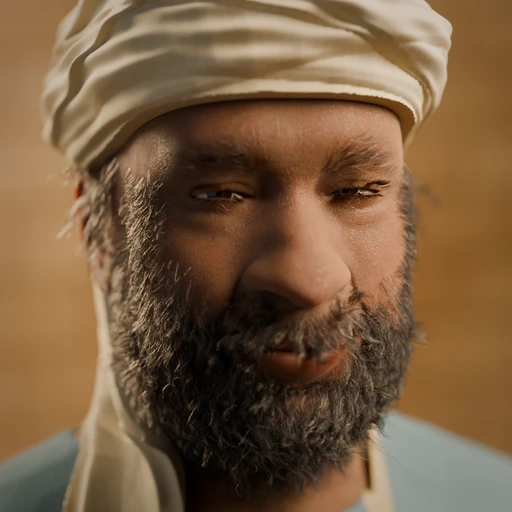
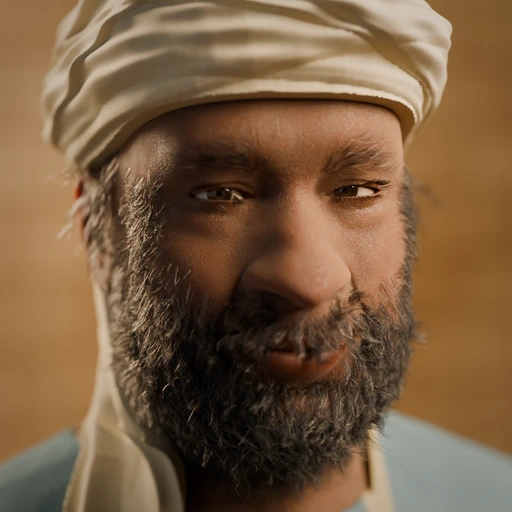
fix(art): Elazar's and Kallias's smiles keep their eyes open
Their glad faces narrowed the eyes to a slit that hid the iris (pupil
heights -3.23 and -5.59 against the gaze check's -0.5 floor). How far a
smile narrows the eyes is now a person's own trait, `smile_squint` in
CASTING (1 by default; 0.45 for Elazar's hooded eyes, 0.4 for Kallias),
scaling the smile's lid slit and cheek lift. Re-rendered: heights 0.05 and
0.20, skin within dE 1 using their neutral portraits' correction.

diff --git a/tools/art/lib/portrait_params.py b/tools/art/lib/portrait_params.py
@@ -54,6 +54,9 @@ class Params:
     brow_asym: float = 0.0  # + the person's left brow higher
     lid_droop: float = 0.0  # heavy upper lids (weariness)
     squint: float = 0.0  # lower lids raised (sun, suspicion)
+    # How far a smile narrows this person's eyes (1 = the usual squint). Some
+    # faces close to a slit that hides the iris: Elazar's hooded eyes, Kallias's.
+    smile_squint: float = 1.0
     mouth_down: float = 0.0
     press: float = 0.0  # lips pressed together
     gaze: tuple = (0.0, 0.0)  # degrees away from the camera: (+ person's left, + up)
@@ -126,7 +129,7 @@ CASTING = {
     # ── Chapter 2: A Storm on Galilee ──────────────────────────────────────
     "shelomit": dict(age=71, sex="f", mood="kind", sun=0.65, face="oval", nose="aquiline", eyes="down", lips="thin"),
     # Uncle Elazar: master of the family boat, a fisherman since boyhood.
-    "elazar": dict(age=45, sex="m", mood="hearty", sun=1.0, face="square", nose="broad", eyes="hooded", lips="full"),
+    "elazar": dict(age=45, sex="m", mood="hearty", sun=1.0, face="square", nose="broad", eyes="hooded", lips="full", smile_squint=0.45),
     # Tamar: the player's cousin, a rower who teaches them the boat.
     "tamar": dict(age=17, sex="f", mood="bright", sun=0.75, face="heart", nose="straight", eyes="almond", lips="full"),
     "yoezer": dict(age=39, sex="m", mood="dour", sun=1.0, scars=[((2.6, -6.2), (3.4, -7.0), 0.09)], hair="crop", face="long", nose="convex", eyes="deep", lips="thin"),
@@ -146,7 +149,7 @@ CASTING = {
     "asa": dict(age=40, sex="m", mood="wry-tired", sun=0.8, scars=[((-3.6, 4.4), (-3.2, 3.5), 0.08)], hair="straight", face="square", nose="aquiline", eyes="almond", lips="medium"),
     "peninah": dict(age=33, sex="f", mood="gentle", sun=0.3, face="round", nose="straight", eyes="down", lips="medium"),
     # Kallias the clerk: "by tonight my hand will fall off".
-    "kallias": dict(age=27, sex="m", mood="harried", sun=0.1, hair="crop", recede=4.0, face="oval", nose="bridge", eyes="almond", lips="thin"),
+    "kallias": dict(age=27, sex="m", mood="harried", sun=0.1, hair="crop", recede=4.0, face="oval", nose="bridge", eyes="almond", lips="thin", smile_squint=0.4),
     # Hagit: "I've lived in Bethlehem seventy years."
     "hagit": dict(age=77, sex="f", mood="wonder", sun=0.7, face="long", nose="bulbous", eyes="deep", lips="thin"),
     # Cousin Yonatan: a young shepherd (his scarf would make the data guess a woman).
@@ -321,6 +324,7 @@ def params_for(pid, appearance, player=False, chapter=""):
     p.hair_curl = float(cast.get("curl", 0.35 + r.random() * 0.55))
     p.hair_cut = cast.get("hair", "curly")
     p.recede = float(cast.get("recede", 0.0))
+    p.smile_squint = float(cast.get("smile_squint", 1.0))
     if child > 0.5:
         p.hair_style = "child"
     elif female:

diff --git a/tools/art/lib/portrait_face.py b/tools/art/lib/portrait_face.py
@@ -270,6 +270,13 @@ def expression(name, P):
     for u, w in mix.items():
         for k, x in _sided(u, w, asym).items():
             units[k] = units.get(k, 0.0) + x
+    if name == "glad" and P.smile_squint != 1.0:
+        # How far this person's smile narrows their eyes (the cheeks push the
+        # lower lids up too, so both are scaled).
+        units = {
+            k: v * (P.smile_squint if ("slit" in k or "cheek-trans-up" in k) else 1.0)
+            for k, v in units.items()
+        }
     if P.child > 0.5 and name == "angry":
         # A child's cross face: brows and pout, no bared teeth.
         units = {k: v * (0.4 if k.startswith("mouth") else 1.0) for k, v in units.items()}

diff --git a/docs/art/portraits.md b/docs/art/portraits.md
@@ -209,7 +209,7 @@ Scripture and paraphrase lines stay neutral unless the speaker's own feeling is 
 
 **Authored mixes.** Each expression is a mix of MakeHuman's expression units and, where a muscle action alone looked wrong, its modelling targets (the corners of the mouth, the cheeks, the lips), authored here (`EXPRESSION_UNITS` and `CHILD_MIXES` in [`portrait_face.py`](../../tools/art/lib/portrait_face.py)). Each was judged at the 104 and 160 px the game shows, next to the same person's neutral portrait:
 
-- **glad:** a warm, closed-lip smile. The cheeks rise and push the lower lids up into a slight squint, with crow's feet; the corners of the mouth lift up (MakeHuman's `mouth-angles-up`) more than they are pulled sideways; the folds from nose to mouth deepen. A child's mouth widens a little more, the cheeks fill only a little, and the full lower lip is thinned, with its outer ends raised to meet the corners (§8, step 19).
+- **glad:** a warm, closed-lip smile. The cheeks rise and push the lower lids up into a slight squint, with crow's feet; the corners of the mouth lift up (MakeHuman's `mouth-angles-up`) more than they are pulled sideways; the folds from nose to mouth deepen. A child's mouth widens a little more, the cheeks fill only a little, and the full lower lip is thinned, with its outer ends raised to meet the corners (§8, step 19). How far a smile narrows the eyes is a person's own trait (`smile_squint` in `CASTING`, 1 by default): Elazar's hooded eyes (0.45) and Kallias's (0.4) closed to a slit that hid the iris, which the gaze check caught.
 - **worried:** the inner brows raised and drawn together, the lips pressed, the corners down a little.
 - **sad:** the inner brows raised, the lids heavy, the corners of the mouth pulled down, the chin raised a little; the eyes look down.
 - **angry:** the brows hard down and knit, the lids narrowed with the lower lids tense, the nostrils flared and the nose wrinkled, the upper lip raised off the teeth, the mouth open, the neck tight. (A child's is a frown and a pout.)
